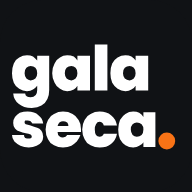
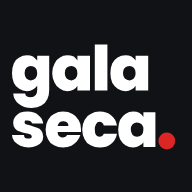
Identidade 3.0: troca o acento de laranja pra vermelho
Pedido direto do usuário ("não gostei do laranja, prefiro vermelho --
tipo, preto, cinza e vermelho"). --accent #f97316 -> #dc2626,
--accent-bright #ffa161 -> #ef4444, --accent-soft e --focus junto;
contraste do texto sobre o acento passa de quase-preto pra branco (o
vermelho novo é mais escuro que o laranja antigo -- branco dá mais
contraste aqui, ~4.8:1). --accent continua ~4.1:1 contra o fundo, no
mesmo patamar que o laranja tinha.

favicon.svg, og-image.png e os ícones do app (192/512, regerados do SVG)
seguem o acento novo.

O vermelho do acento fica na mesma família de matiz do --danger (preço
caiu) e do fio de raridade Covert -- é a tensão natural de pedir "vermelho"
num site que já usa vermelho pra dado negativo. Mantive os tons bem
distintos (vermelho saturado/escuro no acento vs coral mais claro no
danger/covert) pra não ficarem iguais, mas a família de cor é a mesma por
natureza do pedido.

Suíte (1288 testes) passa sem alteração; conferido visualmente no preview
local.

Claude-Session: https://claude.ai/code/session_017sM22vkYResu7RSdcPqz1Q

Changed region(s): [[0.8125, 0.6875, 0.9375, 0.7812]]

diff --git a/galaseca/public_site/static/style.css b/galaseca/public_site/static/style.css
@@ -34,15 +34,15 @@
   --text-muted: #a3abb5;
 
   /* Marca e estados */
-  --accent: #f97316;
-  --accent-bright: #ffa161;
-  --accent-soft: rgba(249, 115, 22, 0.12);
+  --accent: #dc2626;
+  --accent-bright: #ef4444;
+  --accent-soft: rgba(220, 38, 38, 0.12);
   --accent-steel: #66c0f4;
   --positive: #4ade80;
   --warn: #fbbf24;
   --danger: #f87171;
   --danger-bright: #fca5a5;
-  --focus: #ffa161;
+  --focus: #ef4444;
 
   /* Raridade do CS2 (sobrescrita pelas classes .raridade-*) */
   --rar-cor: #b0c3d9;
@@ -130,7 +130,7 @@ hr {
 }
 
 ::selection {
-  background: rgba(249, 115, 22, 0.3);
+  background: rgba(220, 38, 38, 0.3);
   color: var(--text-bright);
 }
 
@@ -262,7 +262,7 @@ summary:focus-visible,
   padding: 10px 18px;
   border-radius: 0 0 var(--radius-sm) 0;
   background: var(--accent);
-  color: #1a0d03;
+  color: #ffffff;
   font-weight: 600;
   text-decoration: none;
 }
@@ -306,7 +306,7 @@ header.topo::after {
   content: "";
   display: block;
   height: 1px;
-  background: linear-gradient(90deg, transparent, rgba(249, 115, 22, 0.5), transparent);
+  background: linear-gradient(90deg, transparent, rgba(220, 38, 38, 0.5), transparent);
 }
 
 header.topo > * {
@@ -851,7 +851,7 @@ footer.rodape a:hover { color: var(--accent-bright); }
   border: 1px solid var(--border);
   border-radius: var(--radius-lg);
   background:
-    radial-gradient(120% 140% at 0% 0%, rgba(249, 115, 22, 0.07), transparent 55%),
+    radial-gradient(120% 140% at 0% 0%, rgba(220, 38, 38, 0.07), transparent 55%),
     var(--bg-elevated);
   overflow: hidden;
 }
@@ -991,7 +991,7 @@ footer.rodape a:hover { color: var(--accent-bright); }
 .atalhos-filtro a[aria-current="true"] {
   background: var(--accent);
   border-color: var(--accent);
-  color: #1a0d03;
+  color: #ffffff;
   font-weight: 600;
 }
 
@@ -1055,7 +1055,7 @@ footer.rodape a:hover { color: var(--accent-bright); }
   border: 1px solid var(--accent);
   border-radius: var(--radius-xs);
   background: var(--accent);
-  color: #1a0d03;
+  color: #ffffff;
   font-size: var(--fs-base);
   font-weight: 600;
   cursor: pointer;
@@ -2338,7 +2338,7 @@ table.tabela-candidatos td.celula-preco {
   border: 1px solid var(--border);
   border-radius: var(--radius-lg);
   background:
-    radial-gradient(120% 140% at 100% 0%, rgba(249, 115, 22, 0.055), transparent 58%),
+    radial-gradient(120% 140% at 100% 0%, rgba(220, 38, 38, 0.055), transparent 58%),
     var(--bg-elevated);
   box-shadow: inset 2px 0 0 var(--rar-cor, var(--accent));
   overflow: hidden;
@@ -2522,7 +2522,7 @@ table.tabela-candidatos td.celula-preco {
 
 .checkbox-comparar:checked::before {
   content: "✓";
-  color: #1a0d03;
+  color: #ffffff;
   font-size: var(--fs-sm);
   font-weight: 700;
   line-height: 1;
@@ -2721,7 +2721,7 @@ table.tabela-candidatos th.celula-comparar-cabecalho {
   border: 1px solid var(--accent);
   border-radius: var(--radius-xs);
   background: var(--accent);
-  color: #1a0d03;
+  color: #ffffff;
   font-size: var(--fs-base);
   font-weight: 600;
   cursor: pointer;
@@ -2845,7 +2845,7 @@ table.tabela-candidatos th.celula-comparar-cabecalho {
   border: 1px solid var(--accent);
   border-radius: var(--radius-xs);
   background: var(--accent);
-  color: #1a0d03;
+  color: #ffffff;
   font-weight: 600;
   cursor: pointer;
   transition: filter 0.15s ease;
